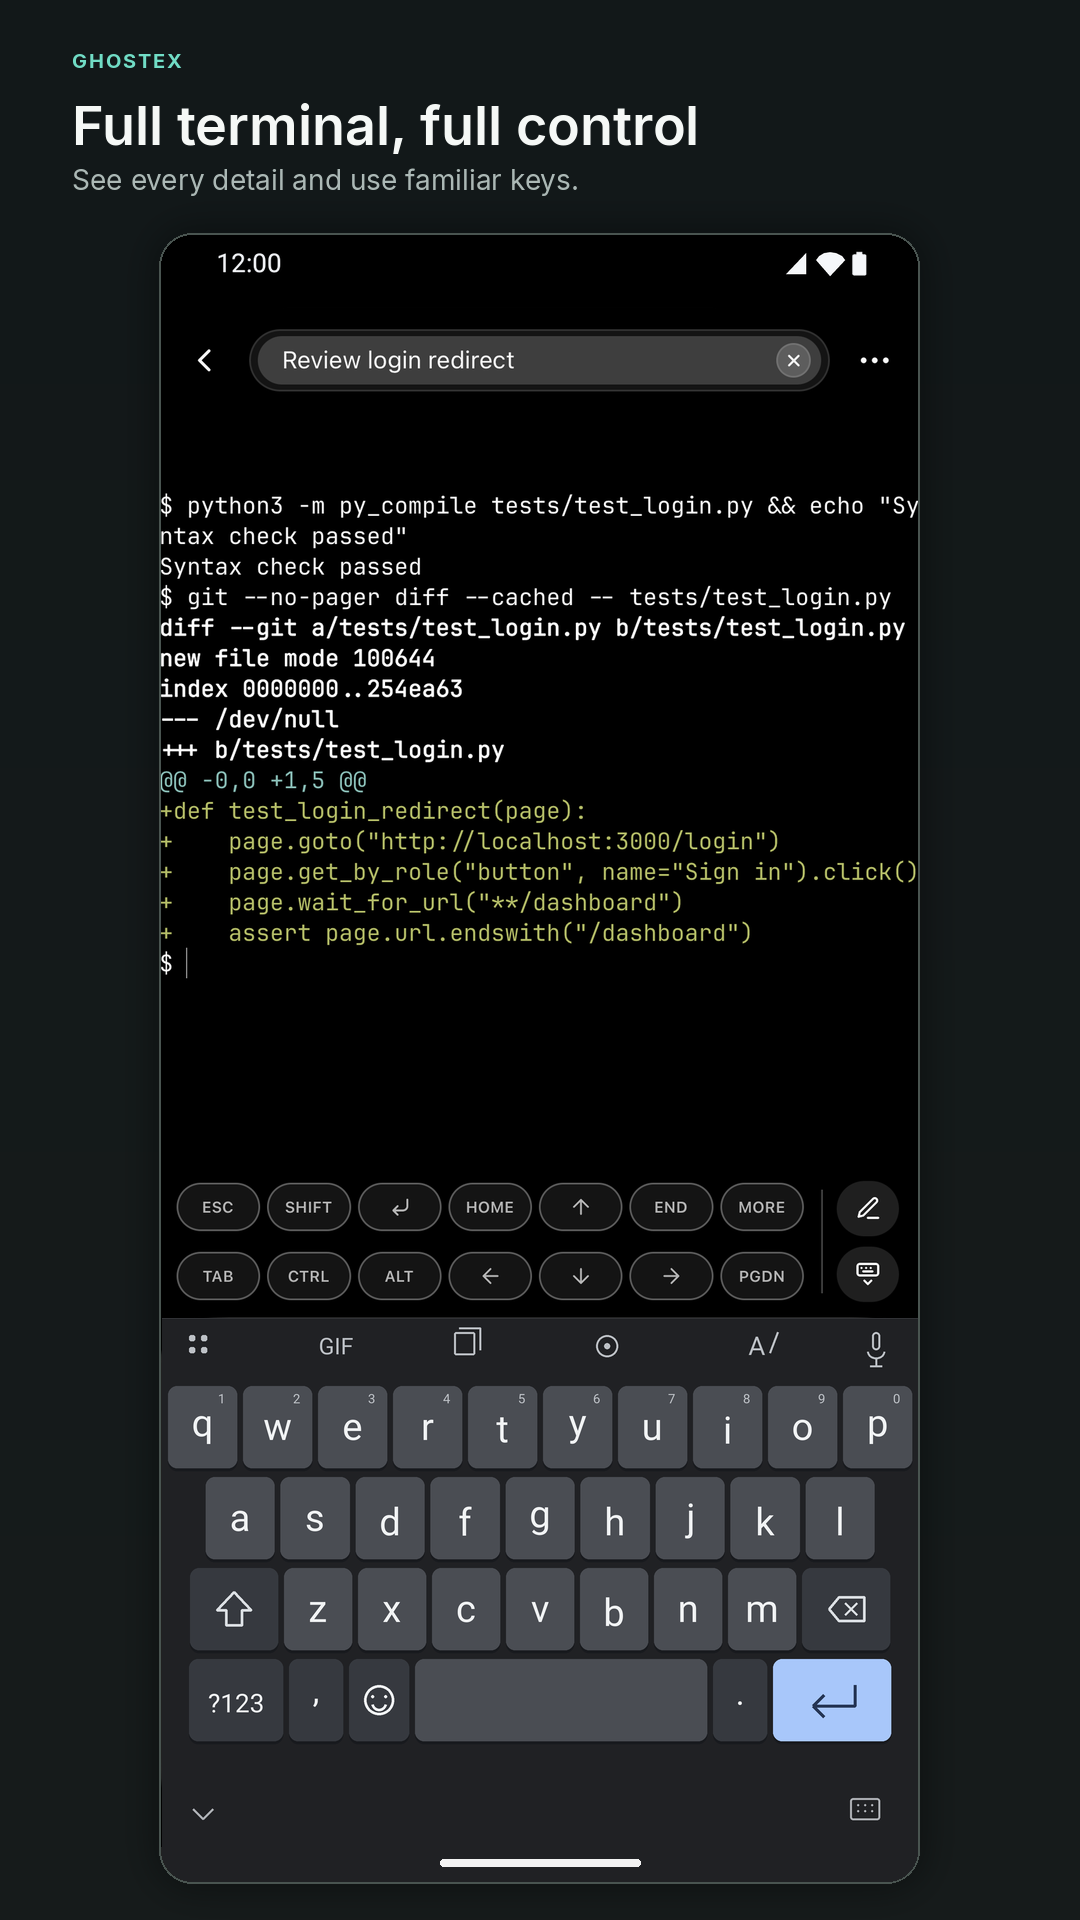
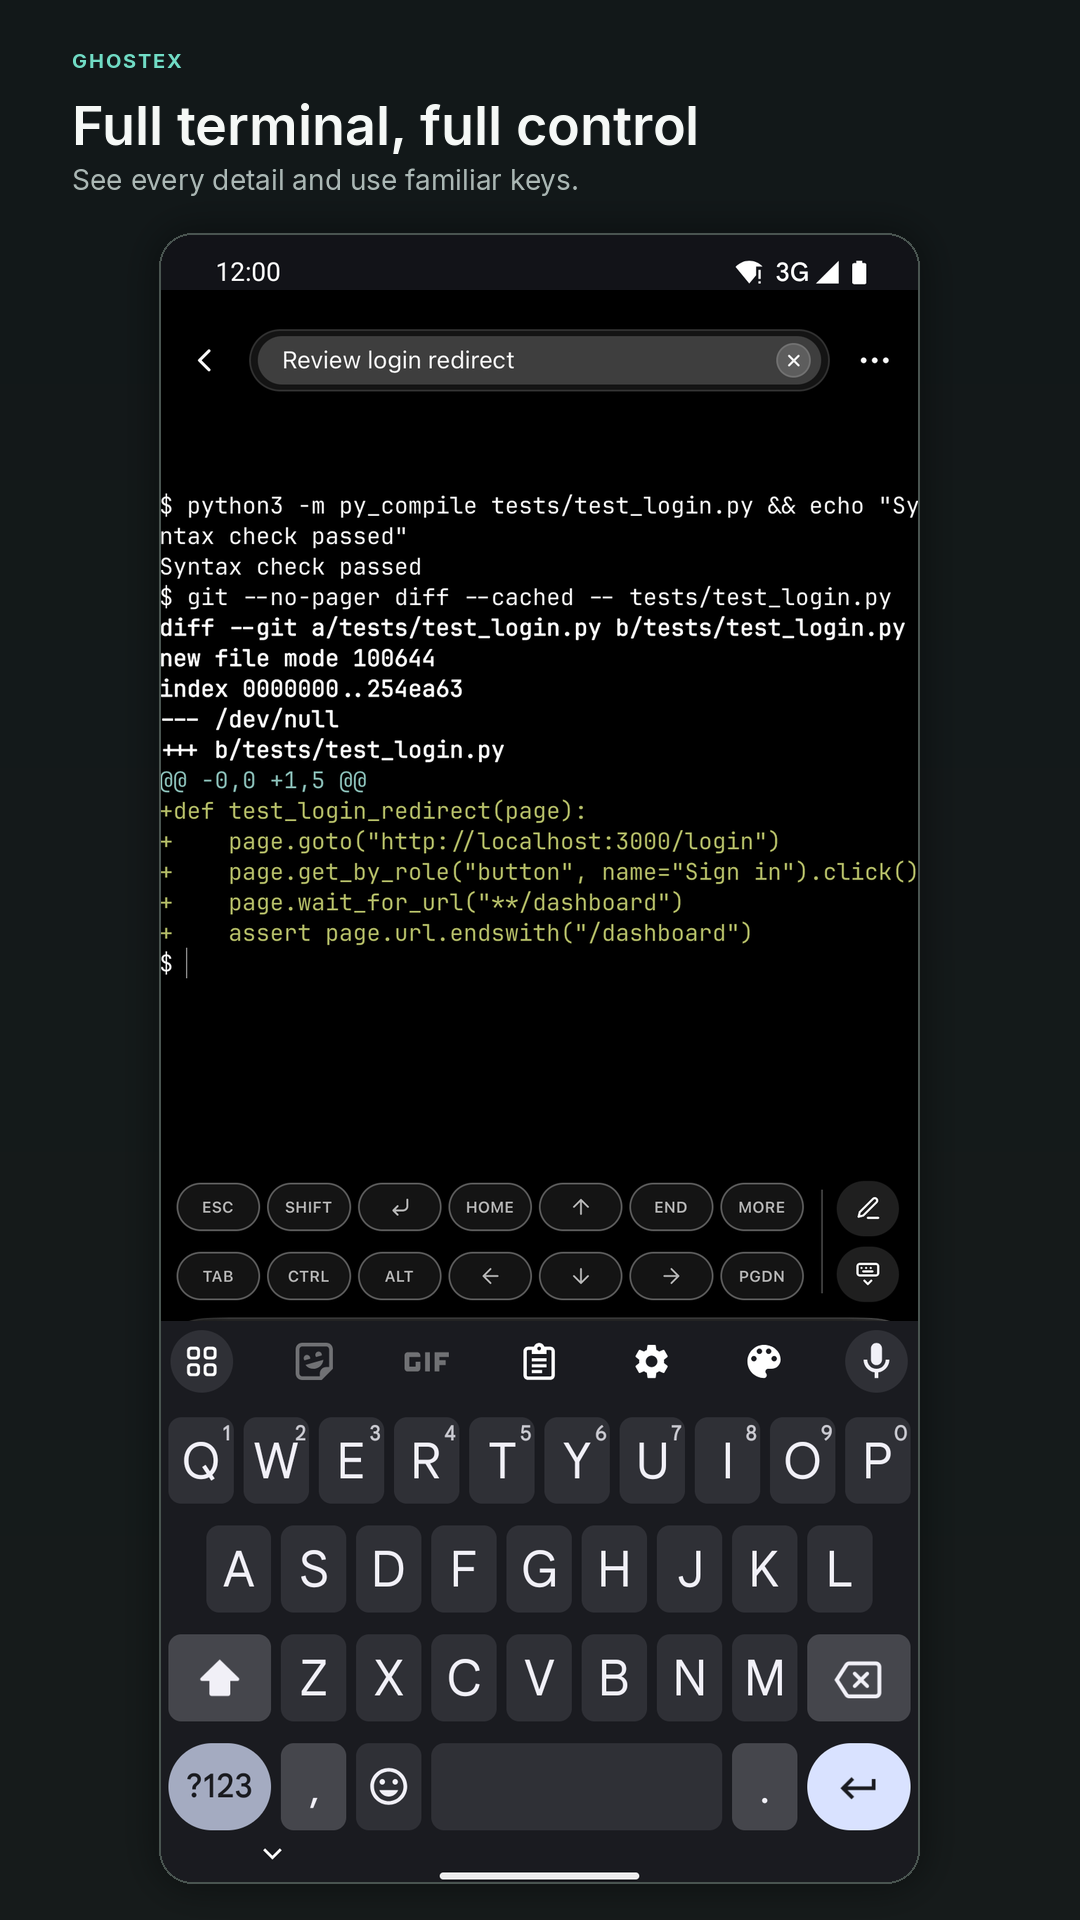
Use Pixel chrome and Gboard in Play screenshots

diff --git a/tooling/release-mobile/play-store/graphics/compose.py b/tooling/release-mobile/play-store/graphics/compose.py
@@ -1,12 +1,9 @@
 #!/usr/bin/env python3
 """Regenerate the Google Play listing graphics.
 
-Phone screenshots are an Android-styled composition of the real app UI already
-captured for the iOS App Store listing. This environment has no Android
-emulator paired to a Ghostex computer, so the pixels inside the phone are
-those captures with the iOS status bar and home-indicator band cropped off,
-then framed with a drawn Android status bar and gesture bar. They are not
-photographs of the Android app.
+Phone screenshots combine the shared React Native app UI captured for the iOS
+App Store listing with real Pixel emulator system chrome and Gboard pixels.
+The app content is not a new Android capture. OS-only regions are replaced.
 
 Outputs (24-bit PNG, no alpha, except the 512 icon which is 32-bit):
 
@@ -36,6 +33,12 @@ ROOT = PLAY.parents[2]
 IOS_PHONE = ROOT / "tooling/release-mobile/app-store/screenshots/iphone-6.9"
 CAPTIONS = ROOT / "tooling/release-mobile/app-store/screenshots/captions.json"
 ICON_SOURCE = HERE / "source/icon.png"
+STATUS_SOURCE = HERE / "source/pixel-status.png"
+NAV_SOURCE = HERE / "source/pixel-gesture-nav.png"
+KEYBOARD_SOURCES = {
+    "04-terminal.png": HERE / "source/pixel-gboard-enter.png",
+    "07-find.png": HERE / "source/pixel-gboard-search.png",
+}
 
 PHONE_SIZE = (1080, 1920)
 # The rounded phone bitmap inside each 1320x2868 iOS store image, from compose.py.
@@ -68,9 +71,17 @@ def font_path(weight: str) -> Path:
         "SemiBold": "/usr/share/fonts/truetype/dejavu/DejaVuSans-Bold.ttf",
         "Bold": "/usr/share/fonts/truetype/dejavu/DejaVuSans-Bold.ttf",
     }
+    mac_fallback = {
+        "Regular": "/Library/Fonts/SF-Compact-Display-Regular.otf",
+        "Medium": "/Library/Fonts/SF-Compact-Display-Medium.otf",
+        "SemiBold": "/Library/Fonts/SF-Compact-Display-Semibold.otf",
+        "Bold": "/Library/Fonts/SF-Compact-Display-Bold.otf",
+    }
     for path in candidates:
         if path.is_file():
             return path
+    if Path(mac_fallback[weight]).is_file():
+        return Path(mac_fallback[weight])
     return Path(fallback[weight])
 
 
@@ -167,7 +178,24 @@ def app_pixels(path: Path) -> Image.Image:
         raise SystemExit(f"{path.name} is {image.size}, expected 1320x2868")
     framed = image.crop(IOS_FRAME)
     height = framed.height - CROP_TOP - CROP_BOTTOM
-    return framed.crop((0, CROP_TOP, framed.width, CROP_TOP + height))
+    content = framed.crop((0, CROP_TOP, framed.width, CROP_TOP + height))
+    # The iPhone Dynamic Island can extend just below the cropped status band.
+    # This region is blank app background on every source screen.
+    draw = ImageDraw.Draw(content)
+    draw.rectangle((0, 0, content.width, 35), fill=content.getpixel((20, 40)))
+    if path.name == "07-find.png":
+        # The source Find header has an iOS back-button capsule. Android uses
+        # a plain back arrow beside the same screen title.
+        draw.rectangle((0, 0, content.width, 174), fill="#000000")
+        draw.line(((104, 75), (76, 102), (104, 129)), fill="#f1f1f1", width=6, joint="curve")
+        draw.line(((78, 102), (130, 102)), fill="#f1f1f1", width=6)
+        draw.text((192, 69), "Find Prompts", font=font("SemiBold", 43), fill="#f1f1f1")
+    elif path.name == "06-docs.png":
+        # The iOS stack header uses a circular chevron control here.
+        draw.rectangle((38, 38, 170, 168), fill=content.getpixel((190, 100)))
+        draw.line(((108, 76), (80, 104), (108, 132)), fill="#f1f1f1", width=6, joint="curve")
+        draw.line(((82, 104), (136, 104)), fill="#f1f1f1", width=6)
+    return content
 
 
 def chrome_color(content: Image.Image, top: bool) -> tuple[int, int, int]:
@@ -177,44 +205,24 @@ def chrome_color(content: Image.Image, top: bool) -> tuple[int, int, int]:
     return pixels[len(pixels) // 2]
 
 
-def draw_status(canvas: Image.Image, color: tuple[int, int, int]) -> None:
-    draw = ImageDraw.Draw(canvas)
-    draw.rectangle((0, 0, canvas.width, STATUS_H), fill=color)
-    face = font("Medium", 22)
-    draw.text((28, 14), "9:41", font=face, fill="#f2f2f2")
-    right = canvas.width - 28
-    # Battery.
-    battery = (right - 34, 18, right, 36)
-    draw.rounded_rectangle(battery, radius=3, outline="#f2f2f2", width=2)
-    draw.rectangle((right, 23, right + 3, 31), fill="#f2f2f2")
-    draw.rectangle((battery[0] + 3, 21, battery[0] + 22, 33), fill="#f2f2f2")
-    # Wi-Fi: three arcs.
-    cx = right - 62
-    for radius, width in ((14, 3), (9, 3), (4, 3)):
-        draw.arc((cx - radius, 34 - radius, cx + radius, 34 + radius), 225, 315, fill="#f2f2f2", width=width)
-    # Signal bars.
-    base = 38
-    x = right - 108
-    for index, level in enumerate((8, 13, 18, 22)):
-        draw.rounded_rectangle((x + index * 8, base - level, x + index * 8 + 5, base), radius=1, fill="#f2f2f2")
-
-
-def draw_nav(canvas: Image.Image, y: int, color: tuple[int, int, int]) -> None:
-    draw = ImageDraw.Draw(canvas)
-    draw.rectangle((0, y, canvas.width, canvas.height), fill=color)
-    pill_w = 118
-    left = (canvas.width - pill_w) // 2
-    draw.rounded_rectangle((left, y + 16, left + pill_w, y + 22), radius=3, fill="#9a9a9a")
-
-
-def frame_phone(content: Image.Image, width: int) -> Image.Image:
+def frame_phone(content: Image.Image, width: int, file_name: str) -> Image.Image:
     scale = width / content.width
     height = round(content.height * scale)
     scaled = content.resize((width, height), Image.Resampling.LANCZOS)
     phone = Image.new("RGB", (width, STATUS_H + height + NAV_H), chrome_color(scaled, True))
     phone.paste(scaled, (0, STATUS_H))
-    draw_status(phone, chrome_color(scaled, True))
-    draw_nav(phone, STATUS_H + height, chrome_color(scaled, False))
+    with Image.open(STATUS_SOURCE) as opened:
+        status = opened.convert("RGB").resize((width, STATUS_H), Image.Resampling.LANCZOS)
+    phone.paste(status, (0, 0))
+    with Image.open(NAV_SOURCE) as opened:
+        nav = opened.convert("RGB").resize((width, NAV_H), Image.Resampling.LANCZOS)
+    phone.paste(nav, (0, STATUS_H + height))
+    if keyboard_source := KEYBOARD_SOURCES.get(file_name):
+        with Image.open(keyboard_source) as opened:
+            keyboard = opened.convert("RGB")
+        keyboard_height = round(keyboard.height * width / keyboard.width)
+        keyboard = keyboard.resize((width, keyboard_height), Image.Resampling.LANCZOS)
+        phone.paste(keyboard, (0, phone.height - keyboard_height))
     return phone
 
 
@@ -247,7 +255,7 @@ def render_phone(row: dict[str, str]) -> Path:
     # Width follows the height budget so the tall UI stays inside 9:16.
     width_budget = PHONE_SIZE[0] - 120
     phone_width = min(width_budget, round(content.width * (max_height - STATUS_H - NAV_H) / content.height))
-    phone = frame_phone(content, phone_width)
+    phone = frame_phone(content, phone_width, row["file"])
     if phone.height > max_height:
         raise SystemExit(f"{row['file']} phone is {phone.size}, taller than {max_height}")
     x = (PHONE_SIZE[0] - phone.width) // 2

diff --git a/tooling/release-mobile/play-store/README.md b/tooling/release-mobile/play-store/README.md
@@ -19,7 +19,9 @@ The version in this folder is **11.0.0** (GitHub release v11.0.0).
 
 ## Screenshots
 
-There is no Android emulator in the environment that produced these, and the app shows nothing until it is paired with a computer running Ghostex. The phone screenshots are an Android-styled composition of the real UI already captured for the iOS listing (`tooling/release-mobile/app-store/screenshots/iphone-6.9/`). The iOS status bar and home-indicator band are cropped off. A status bar and a gesture pill are drawn on top. The app UI inside the frame is the shared React Native UI from those captures, not a new Android photograph. The terminal and Find screenshots still show the iOS keyboard from the source capture.
+The phone screenshots are composites of the shared React Native app UI captured for the iOS listing (`tooling/release-mobile/app-store/screenshots/iphone-6.9/`) and real Android OS pixels. The composition crops the iOS status bar, Dynamic Island, and home-indicator area. Its status bar and gesture navigation strip come from a headless Pixel API 35 emulator at 1080×1920. The terminal and Find keyboard regions use dark Gboard captures from that emulator, with Enter and Search action keys respectively. Find and Docs use Android-style back arrows in place of the iOS back controls. The app content inside the frame remains the iOS-origin capture; these composites are not direct Android app screenshots.
+
+The cropped system captures are in `graphics/source/pixel-*.png`. `compose.py` scales them to the phone frame without recreating OS glyphs. The keyboard assets retain their native key geometry: the join removes only an empty band between the keys and navigation controls.
 
 Tablet screenshots are not included. The only tablet captures on hand are iPad screenshots, and those would show the wrong device.
 
